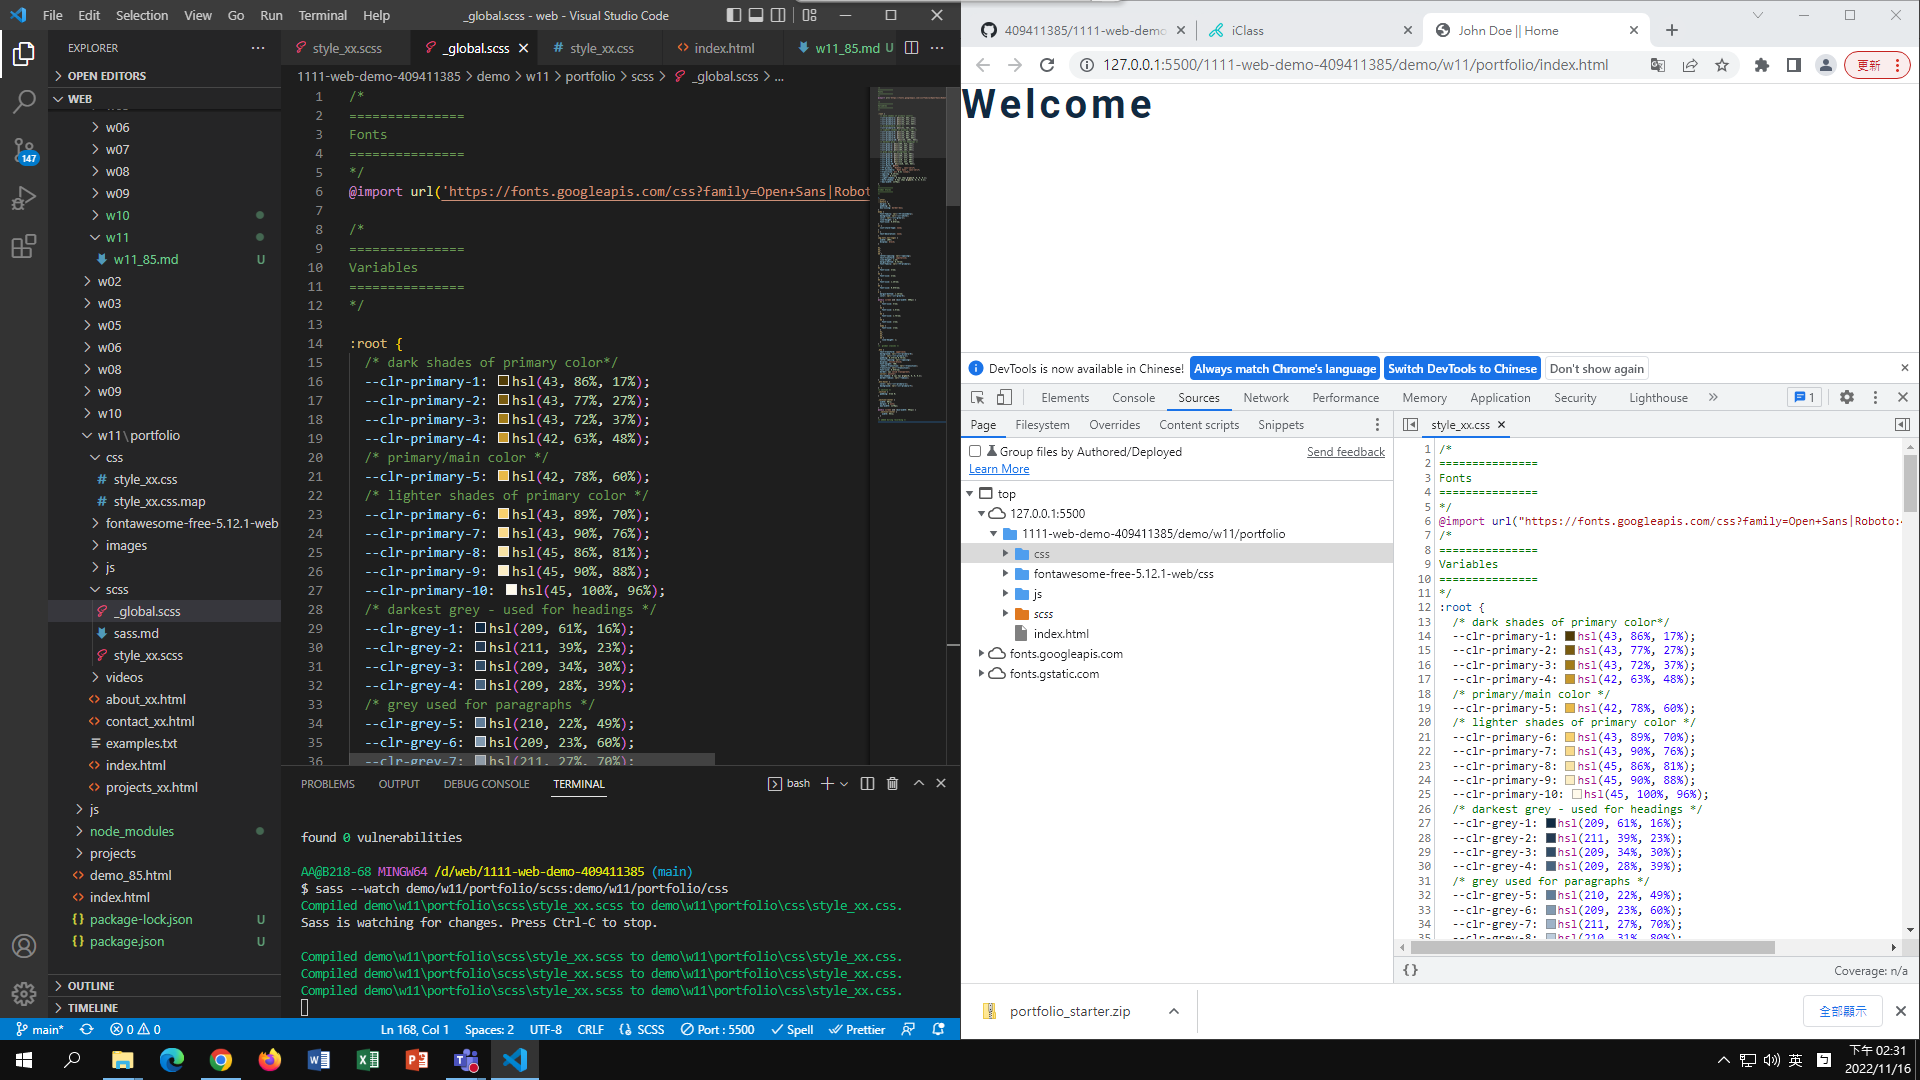
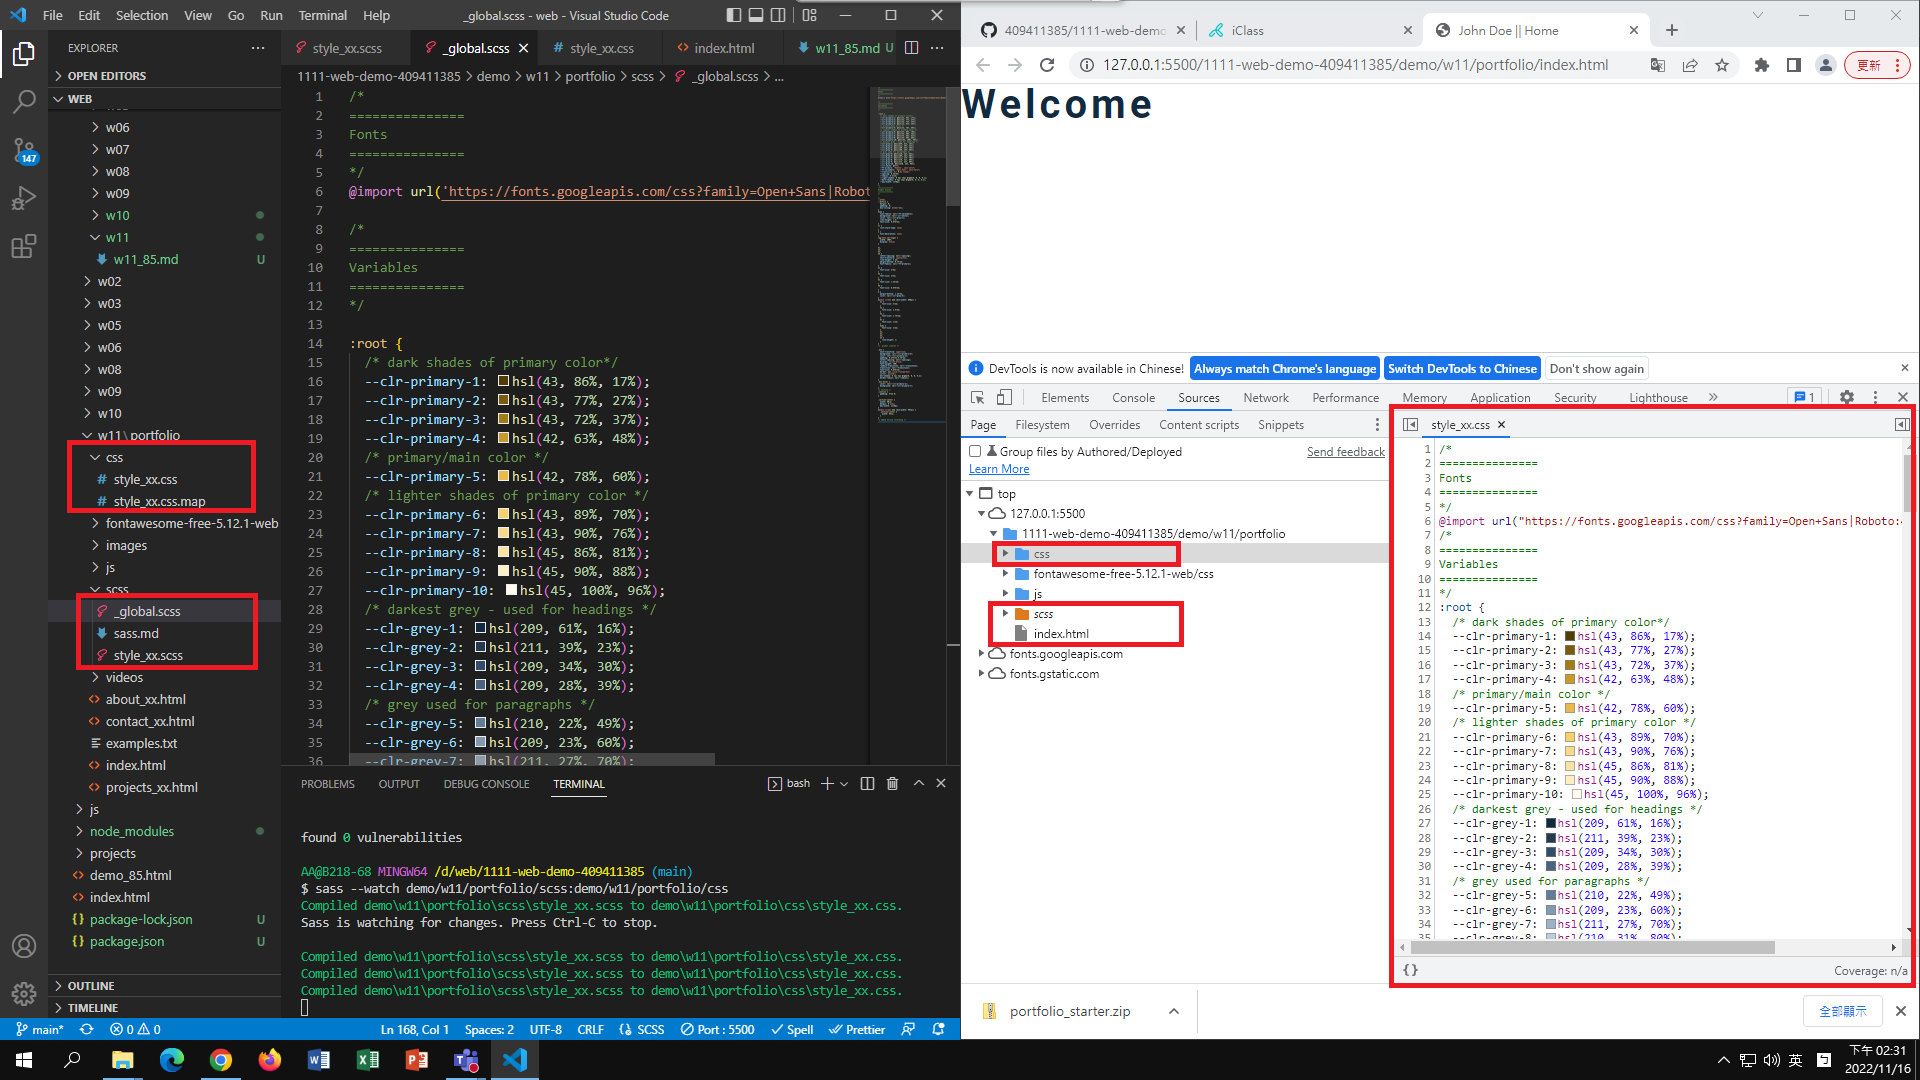
w11-P2: modify w09 nav css into scss

diff --git a/demo/md/w11/w11_85.md b/demo/md/w11/w11_85.md
@@ -7,3 +7,9 @@
 ### w11-P1: setup SASS, style_85.scss compile to style_85.css
 
 ![](w011-p1.png)
+
+### w11-P2: modify w09 nav css into scss
+
+![](w11-p2-1.png)
+
+![](w11-p2-2.png)
